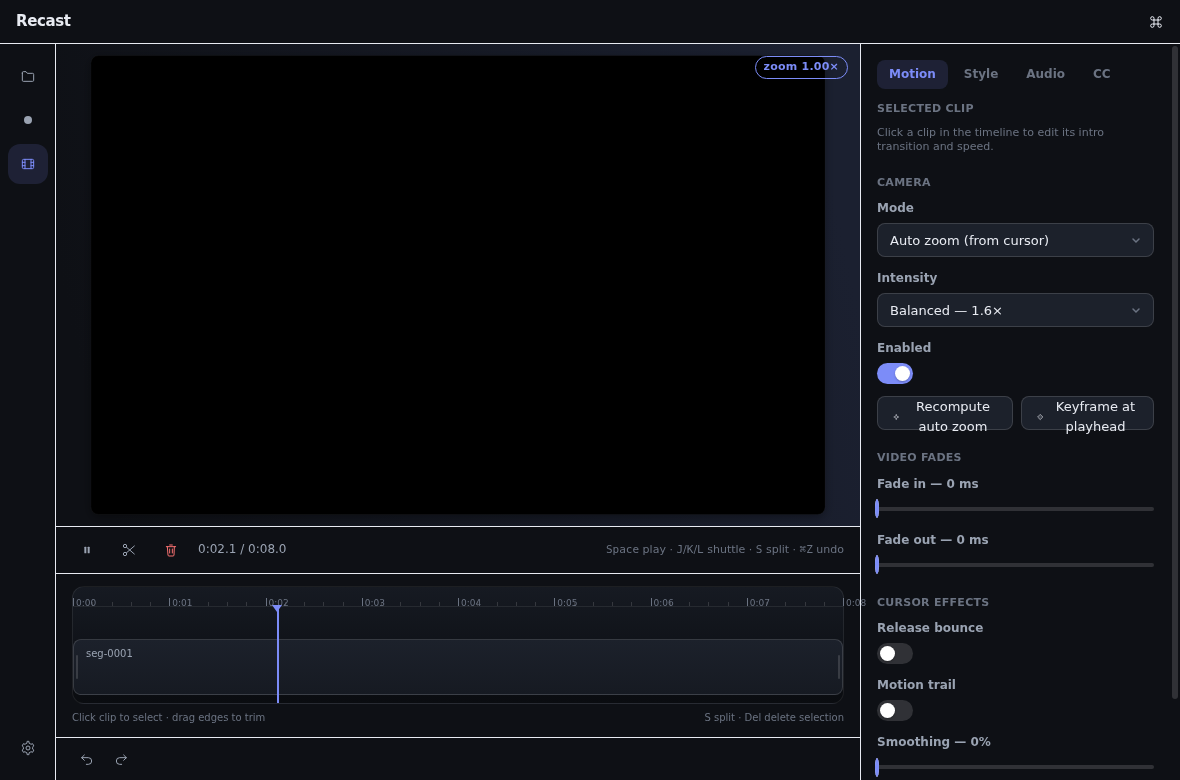
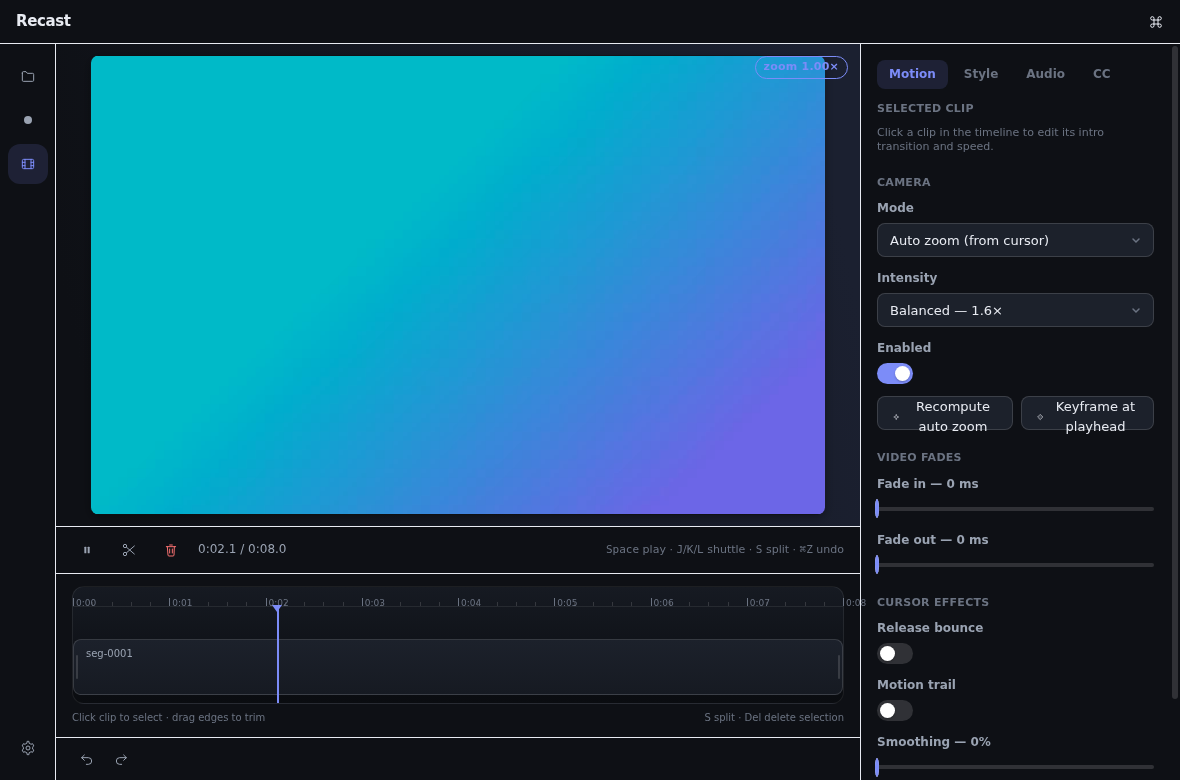
fix: recast-media served absolute paths relative to process cwd — black preview/exports
The handler stripped ALL leading slashes from the URL pathname and then
path.resolve()d the remainder, so 'recast-media://local//home/u/…' resolved
against the process working directory instead of the filesystem root. Any
launch with cwd != '/' returned 404/403 or 'Failed to fetch' → every preview
(and export) rendered black frames. Canonicalize to a rooted absolute path;
verified by decoding a real recording (rs=4, 1280x800) and re-shooting the
editor screenshot with a live video frame.

diff --git a/apps/desktop/src/main/protocol.ts b/apps/desktop/src/main/protocol.ts
@@ -27,8 +27,14 @@ export function mediaUrlFor(absolutePath: string): string {
 export function handleMediaProtocol(): void {
   protocol.handle('recast-media', (request) => {
     const url = new URL(request.url);
-    const relative = decodeURIComponent(url.pathname.replace(/^\/+/, ''));
-    const filePath = path.resolve(relative.startsWith('/') ? relative.slice(1) : relative);
+    // Media URLs carry an absolute POSIX path in the pathname —
+    // `recast-media://local//home/u/recordings/x.mp4` yields pathname
+    // `//home/u/...` (leading double slash from the absolute path's empty
+    // first segment). Canonicalize to a rooted absolute path instead of
+    // resolving against the process cwd, which made the handler 403/404
+    // depending on how the app was launched.
+    const decoded = decodeURIComponent(url.pathname);
+    const filePath = path.resolve(`/${decoded.replace(/^\/+/, '')}`);
 
     const allowed = ALLOWED_ROOTS.some((root) => filePath.startsWith(root));
     if (!allowed) {
